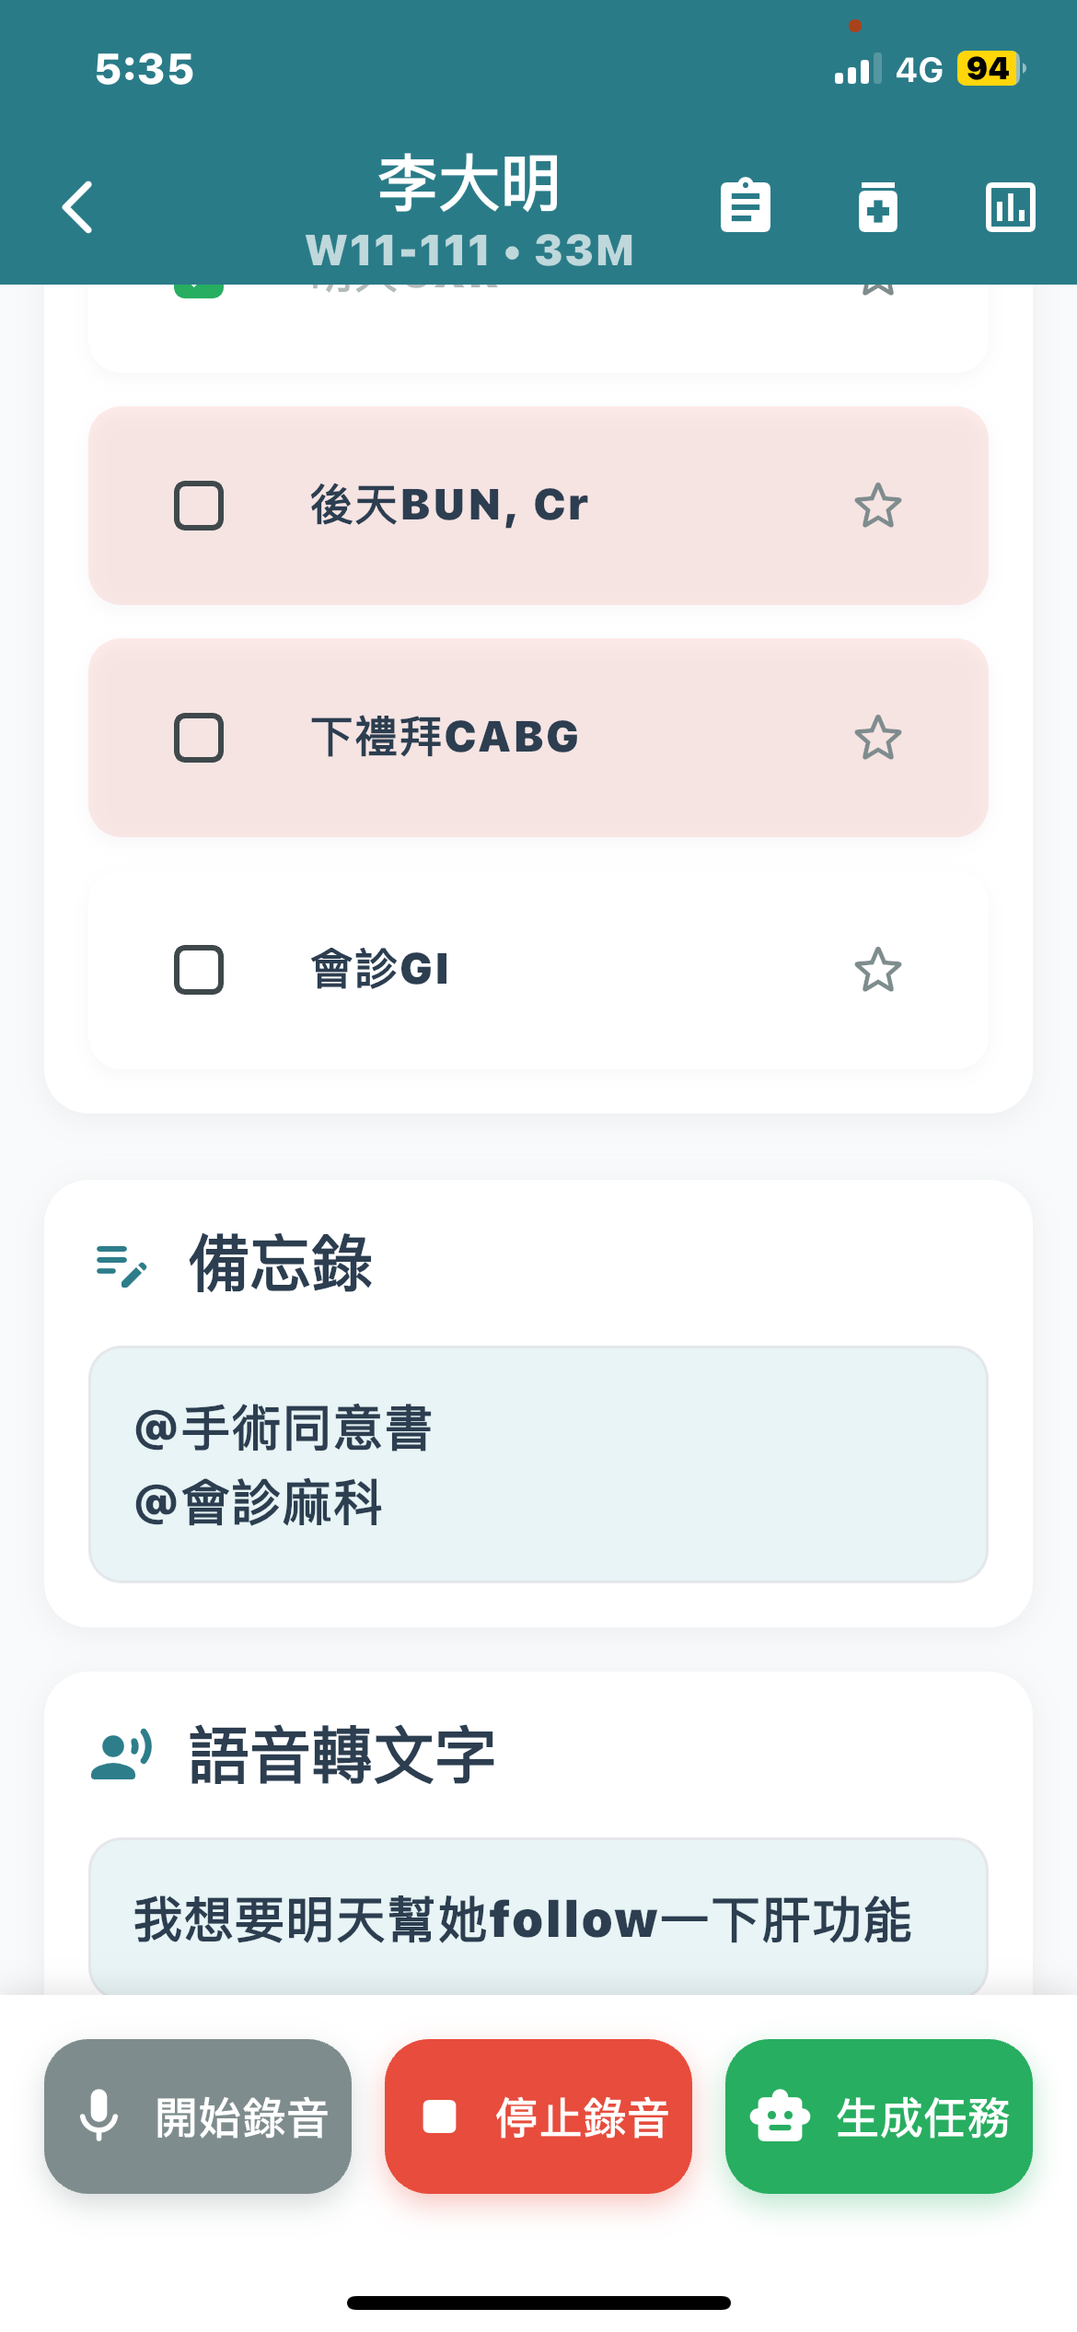
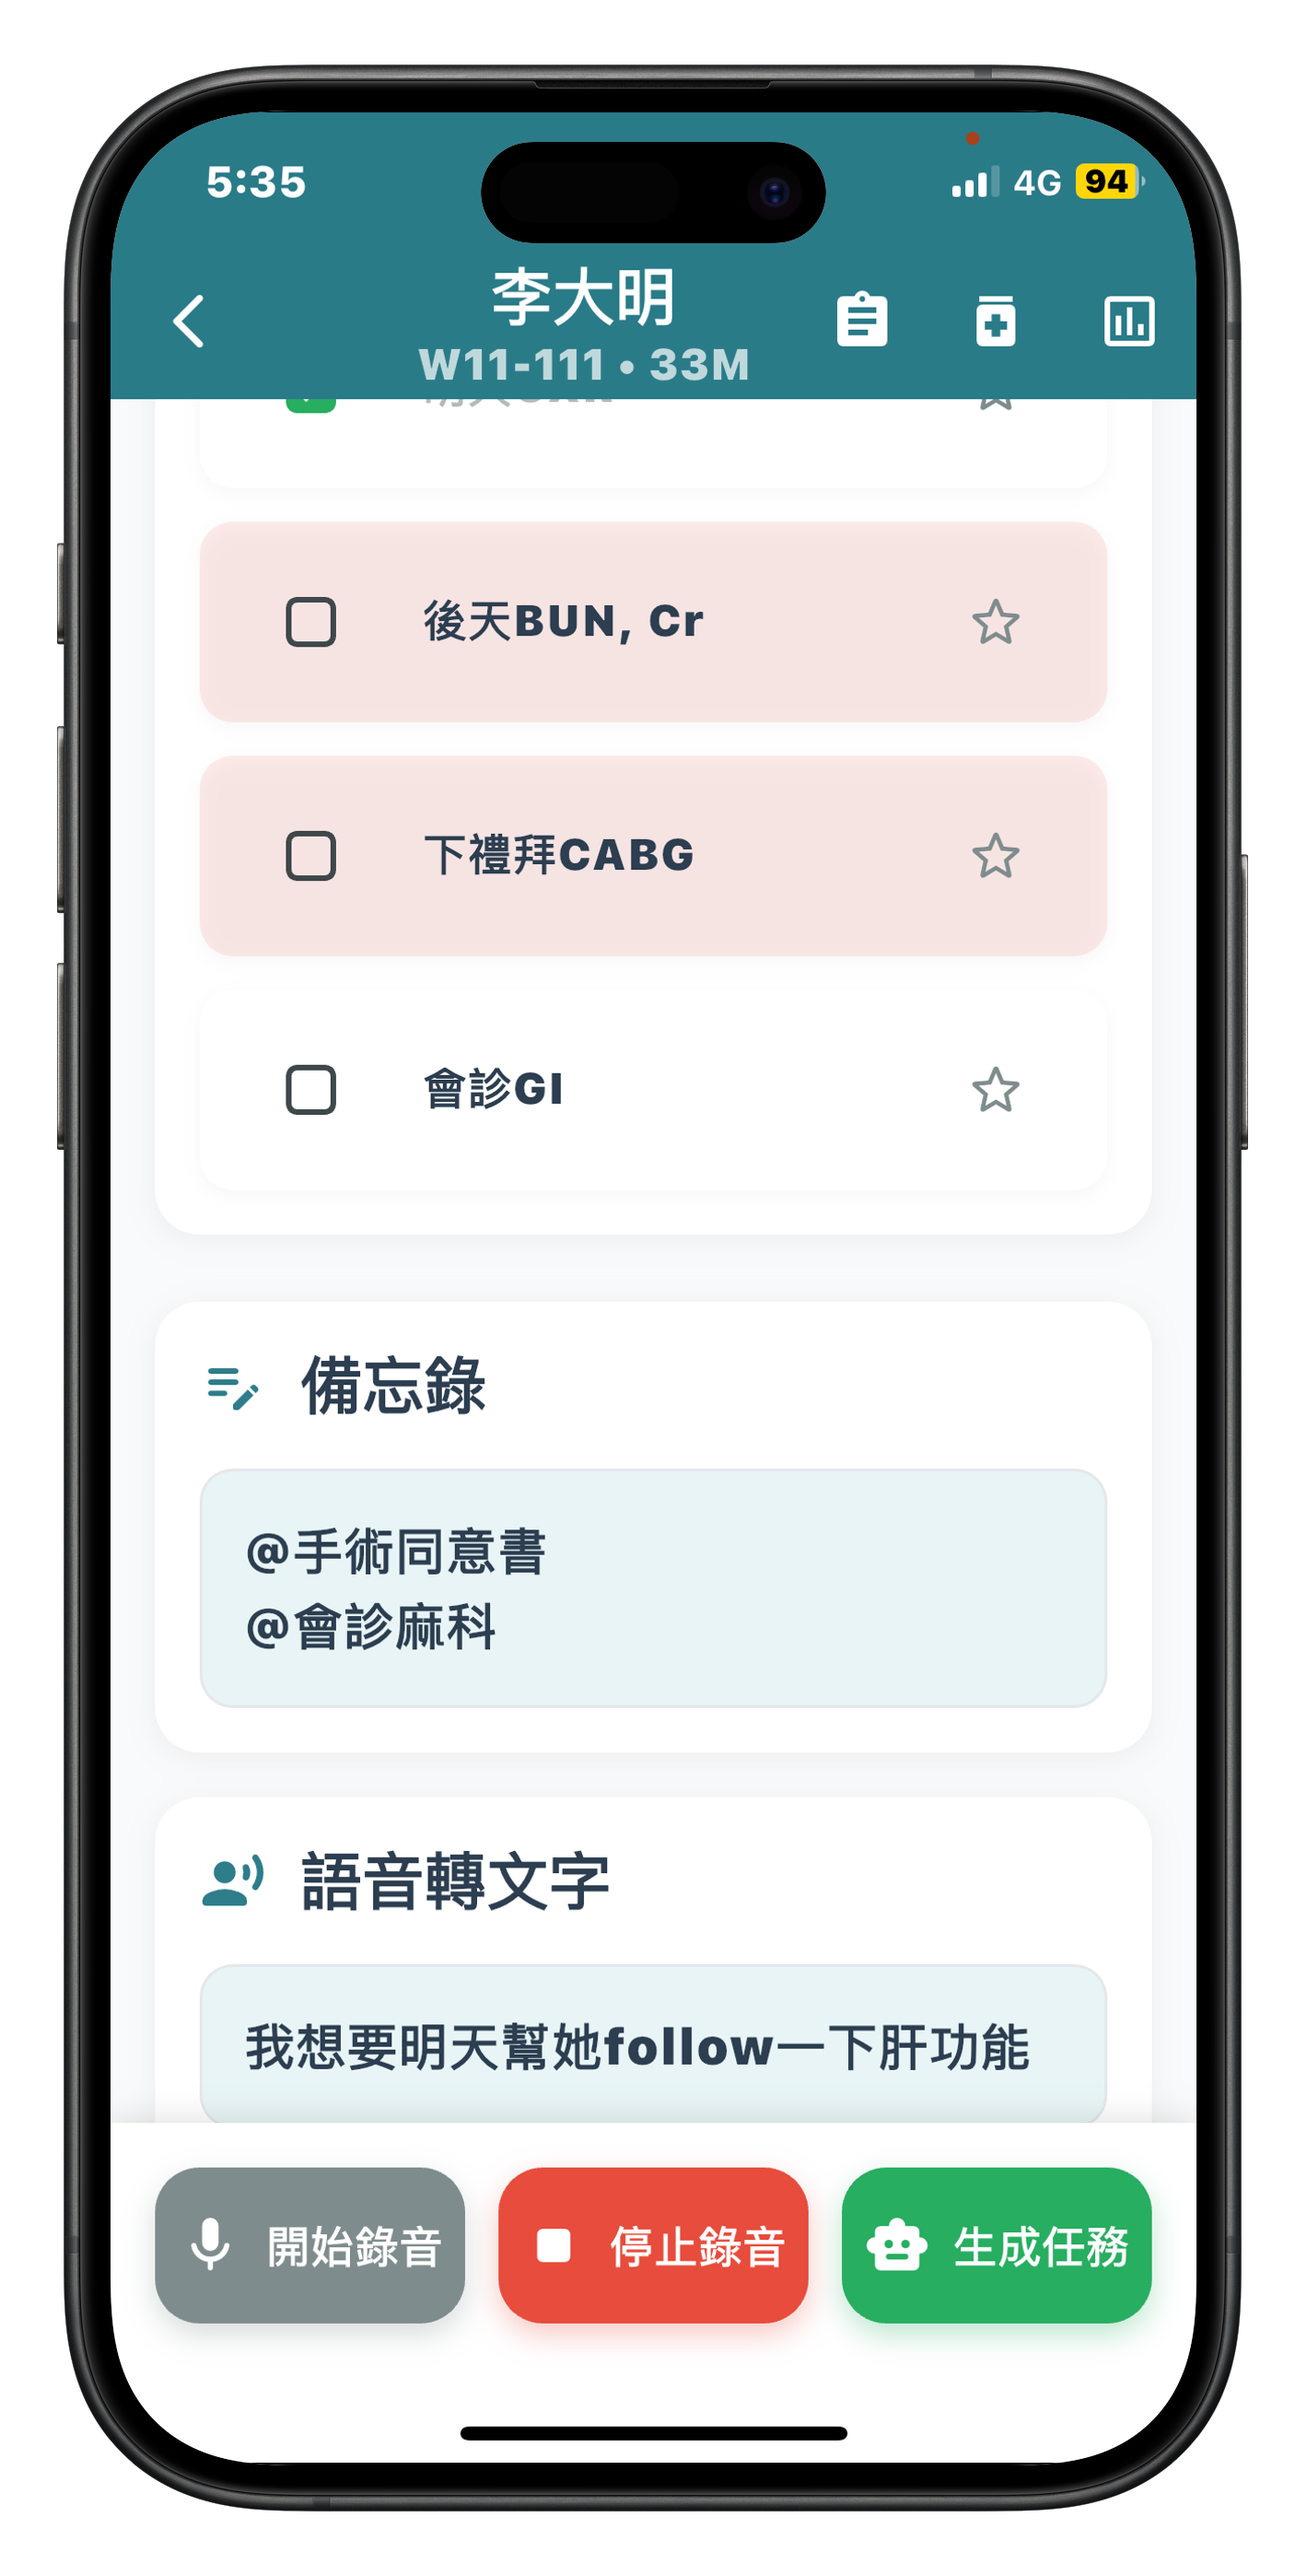
screen_shot

diff --git a/index.html b/index.html
@@ -1332,7 +1332,7 @@
                 <div class="device-showcase">
                     <!-- Device 1: Patient List -->
                     <div class="showcase-device" style="--delay: 0s;">
-                        <div class="device-frame">
+                        <div>
                             <img src="screenshots/patient-list.png" alt="病人列表畫面" class="device-screen" style="display: block;">
                             <div class="device-placeholder" style="display: none;">
                                 <div class="placeholder-header">
@@ -1355,7 +1355,7 @@
 
                     <!-- Device 2: Task Management -->
                     <div class="showcase-device" style="--delay: 0.2s;">
-                        <div class="device-frame">
+                        <div>
                             <img src="screenshots/task-detail.png" alt="任務管理畫面" class="device-screen" style="display: block;">
                             <div class="device-placeholder" style="display: none;">
                                 <div class="placeholder-header">
@@ -1378,7 +1378,7 @@
 
                     <!-- Device 3: Voice Feature -->
                     <div class="showcase-device" style="--delay: 0.4s;">
-                        <div class="device-frame">
+                        <div>
                             <img src="screenshots/voice-input.png" alt="語音輸入畫面" class="device-screen" style="display: block;">
                             <div class="device-placeholder" style="display: none;">
                                 <div class="placeholder-header">
@@ -1401,9 +1401,9 @@
 
                     <!-- Device 4: Security Settings -->
                     <div class="showcase-device" style="--delay: 0.6s;">
-                        <div class="device-frame">
+                        <div>
                             <img src="screenshots/security-screen.png" alt="安全設定畫面" class="device-screen" style="display: block;">
-                            <div class="device-placeholder">
+                            <!-- <div class="device-placeholder">
                                 <div class="placeholder-header">
                                     <div class="placeholder-title">安全設定</div>
                                     <div class="placeholder-icon">🔒</div>
@@ -1419,7 +1419,7 @@
                                     </div>
                                 </div>
                                 <div class="placeholder-label">安全加密截圖</div>
-                            </div>
+                            </div> -->
                         </div>
                         <div class="device-info">
                             <h4>醫療級加密</h4>
